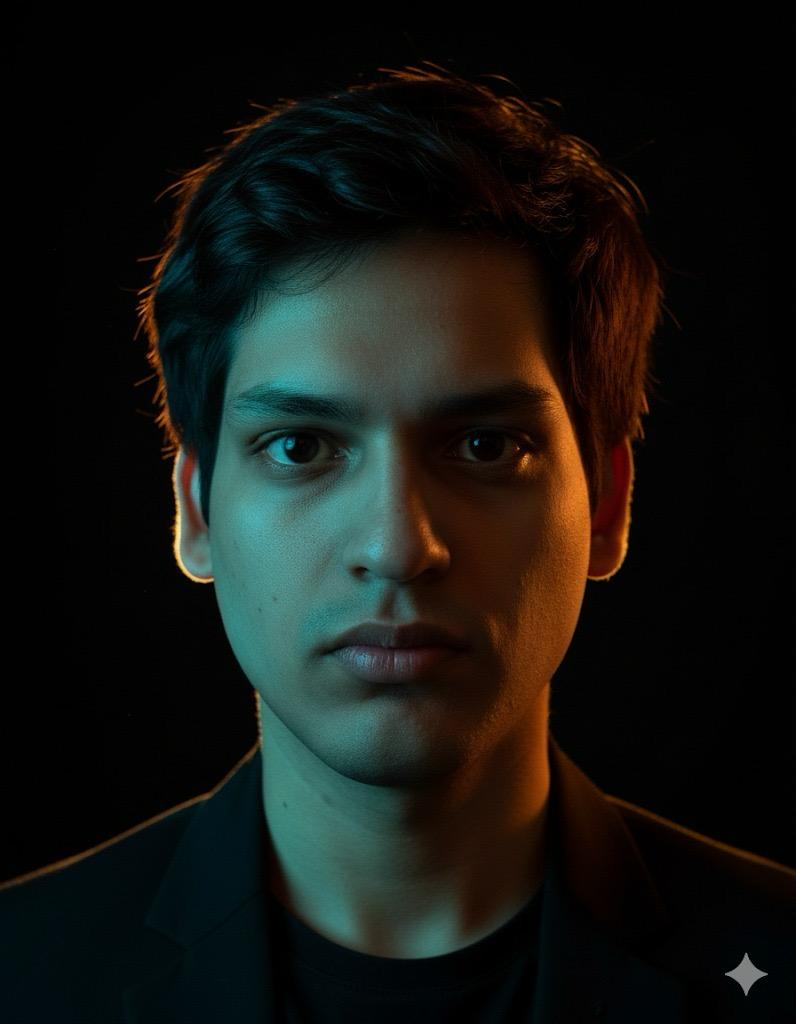
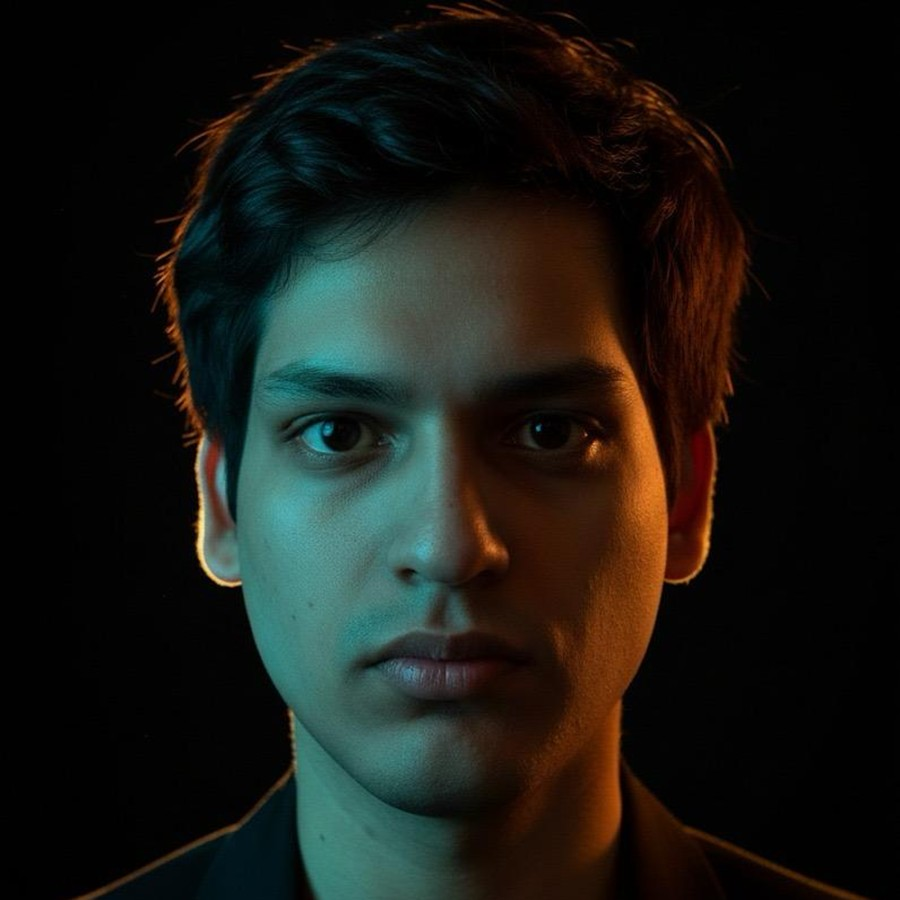
Foto de perfil real
Reemplaza el avatar de ejemplo por la fotografia personal, recortada a
900x900 para que el circulo del hero no recorte la cara.

diff --git a/index.html b/index.html
@@ -51,7 +51,7 @@
         <div class="container">
             <!-- Foto profesional circular (rounded-circle) -->
             <img src="assets/img/foto-perfil.jpg" alt="Foto profesional de Diego M. Jiménez"
-                 class="rounded-circle img-fluid hero-foto mb-4" width="180" height="180">
+                 class="rounded-circle img-fluid hero-foto mb-4" width="900" height="900">
 
             <!-- Nombre -->
             <h1 class="display-4 fw-bold mb-2">Diego M. Jiménez</h1>

diff --git a/css/styles.css b/css/styles.css
@@ -1,8 +1,4 @@
-/* ====================================================================
-   styles.css — Hoja de estilos personalizada
-   Filosofía: Mobile First (los estilos base son para móvil y se
-   amplían con media queries hacia pantallas mayores).
-==================================================================== */
+
 
 /* ---------- Variables de color personalizadas ---------- */
 :root {
